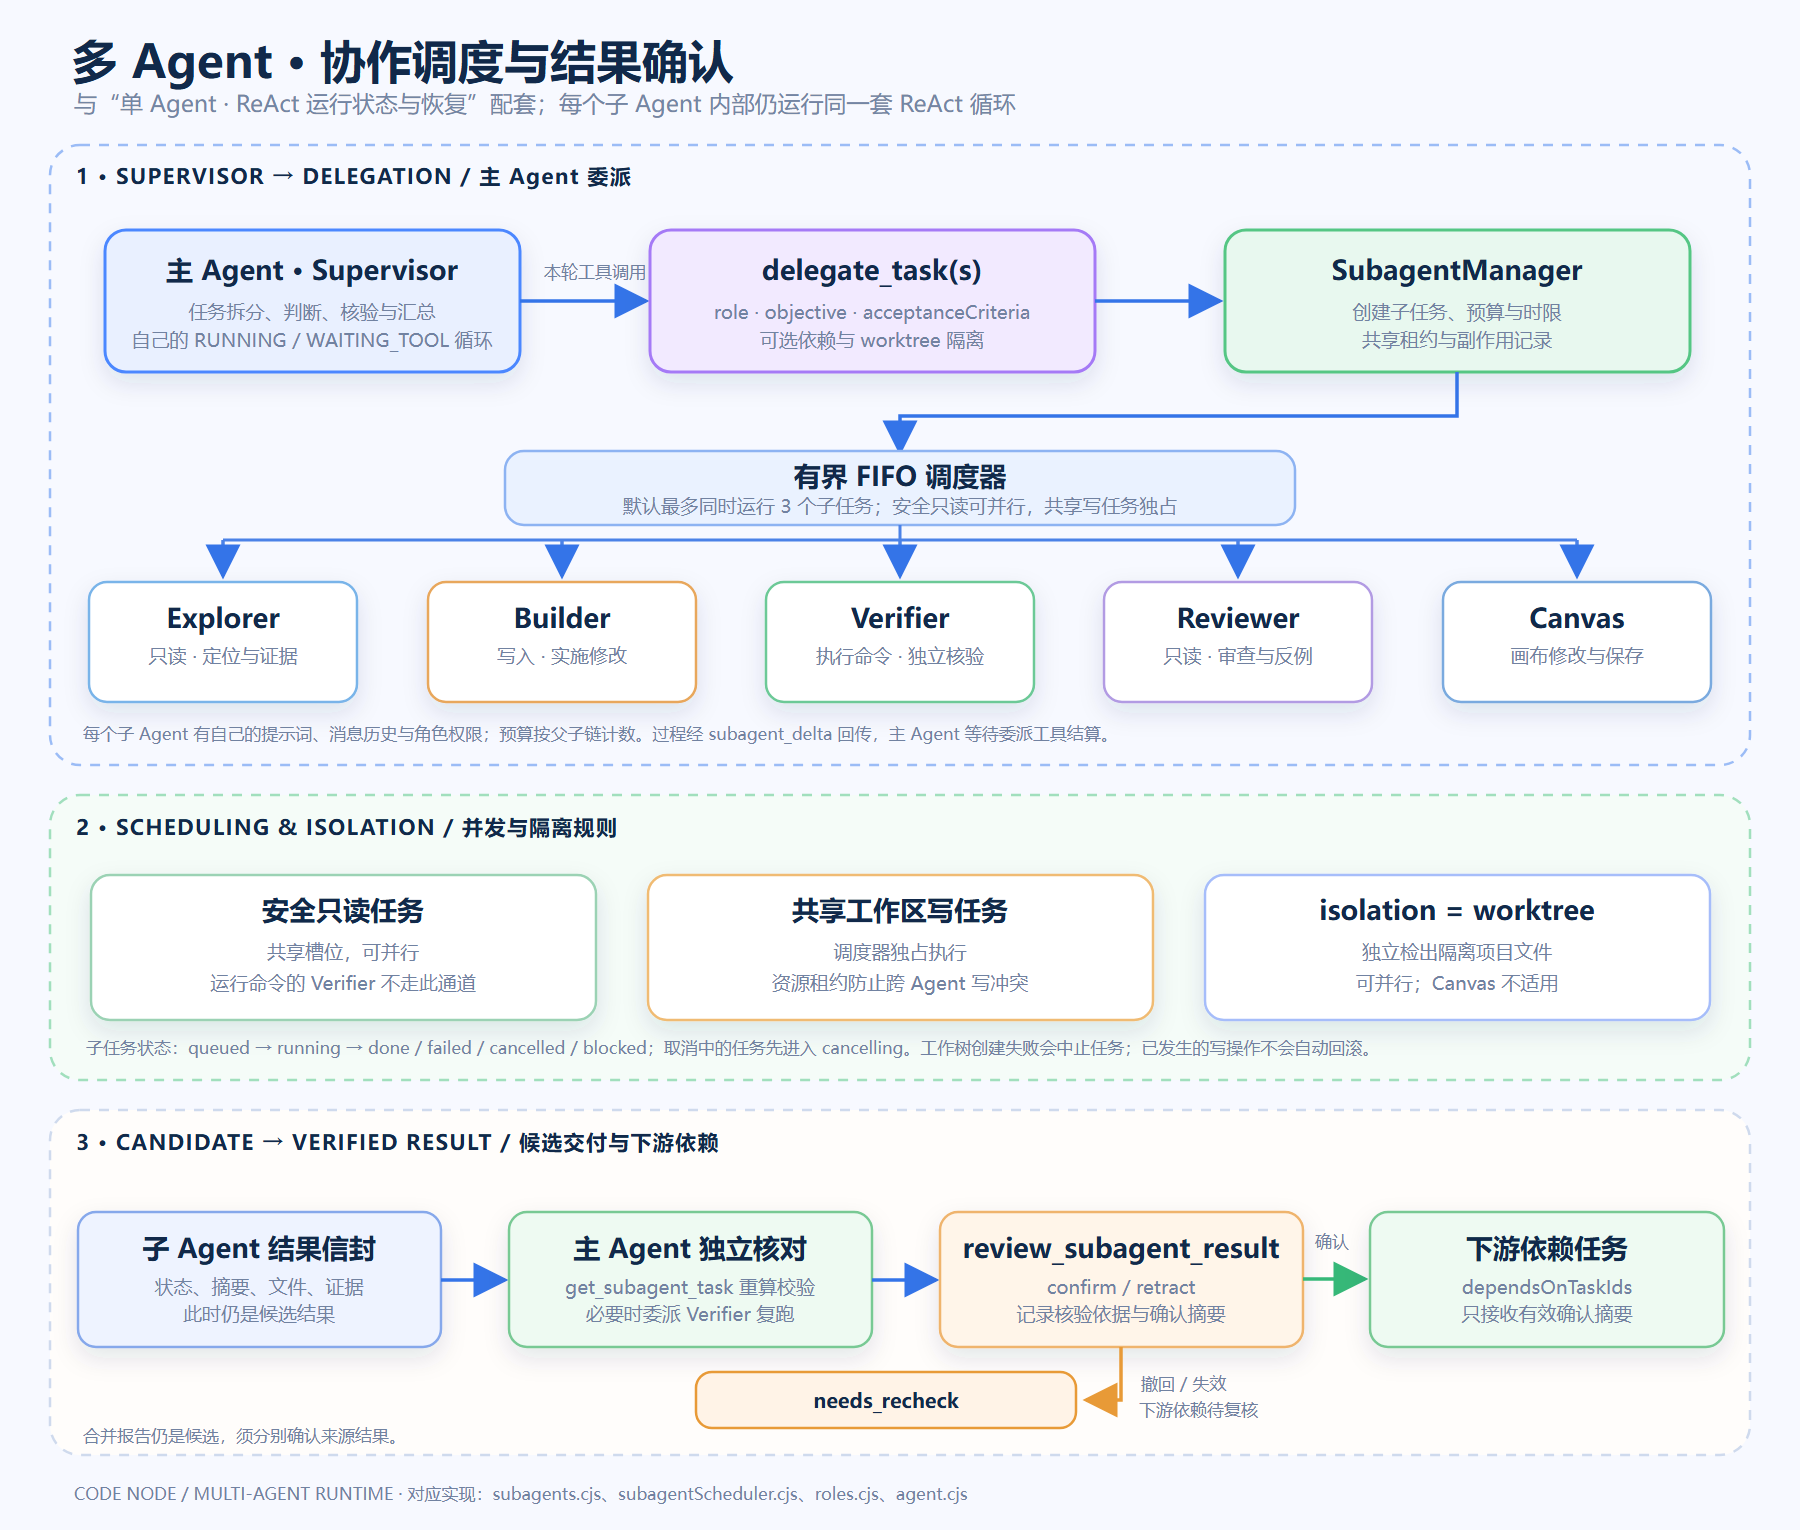
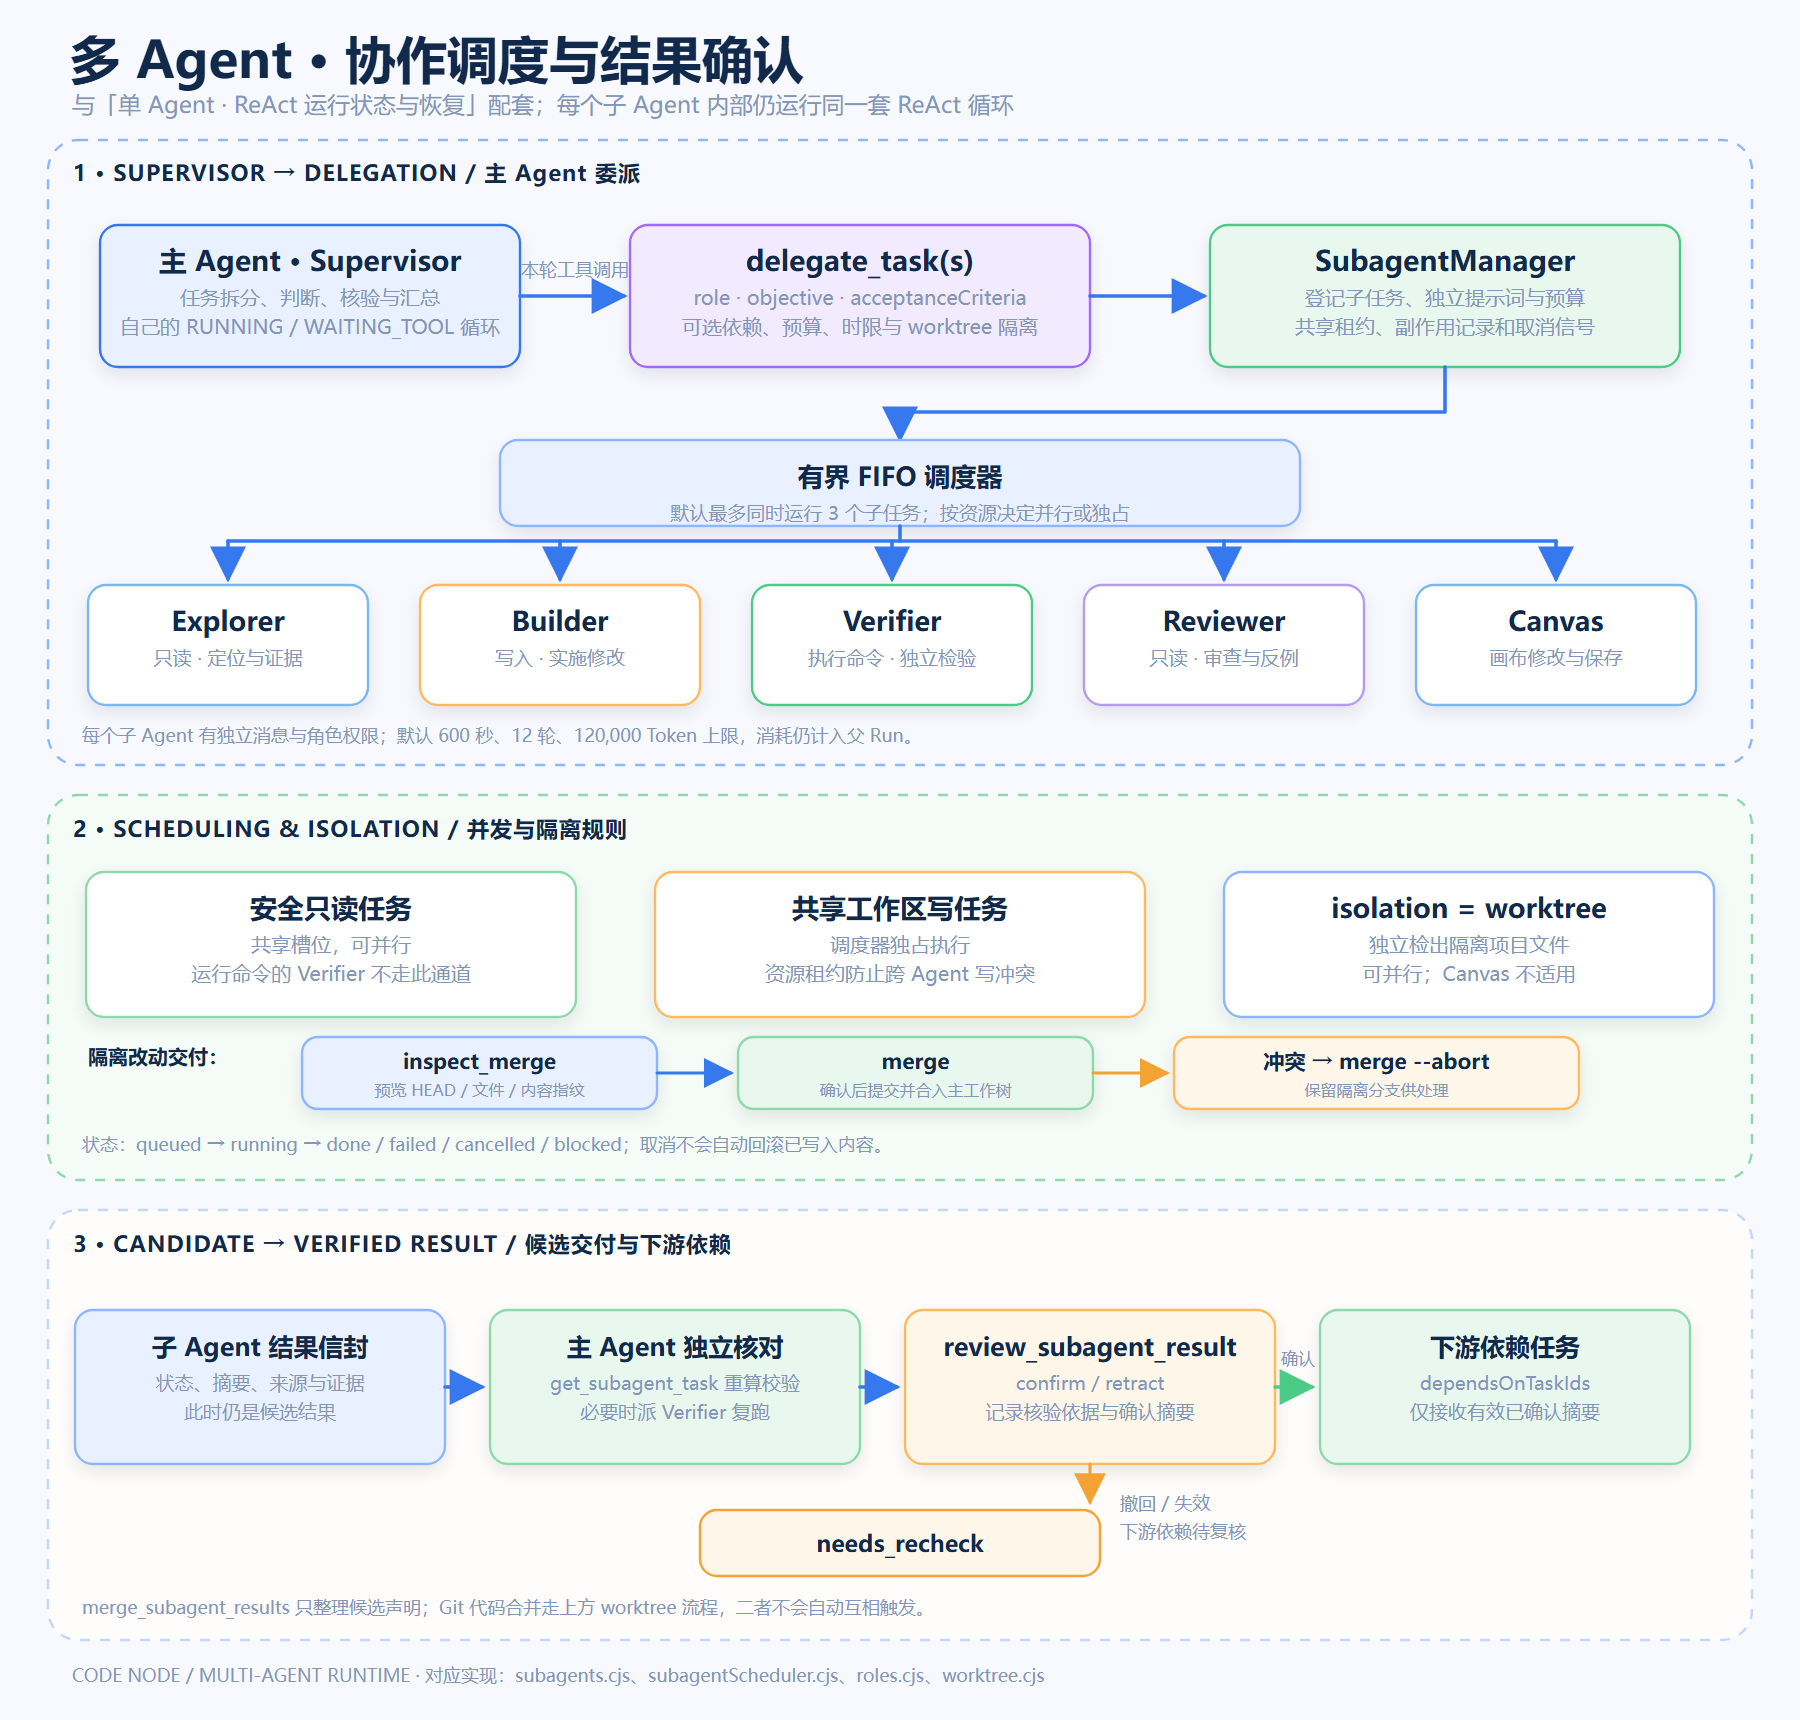
docs: rewrite README and update multi-agent diagram

diff --git a/README.md b/README.md
@@ -1,26 +1,27 @@
 # CodeNode
 
-CodeNode 是一个面向本地工程的桌面 Agent 工作台：用对话让 Agent 读写项目，用节点画布编排工作流，并在同一处查看工具调用、运行记录和恢复计划。桌面端由 Electron、React 和 React Flow 构成。
+**把本地代码工程、Agent 对话和可视化工作流放在同一个桌面窗口。**
 
-## 架构图
+CodeNode 使用 Electron、React 和 React Flow 构建。你可以让 Agent 查找、阅读和修改项目文件，在画布上拆解并运行任务，并从工具记录、运行事件和恢复计划中核对实际发生了什么。工程保存在 `.cnode` 文件中；源代码仍保留在你选择的项目目录。
 
-### 单 Agent：ReAct 状态与恢复
+[快速开始](#快速开始) · [工作方式](#工作方式) · [多-agent-协作](#多-agent-协作) · [运行与恢复](#运行与恢复) · [开发与验证](#开发与验证)
 
-![单 Agent ReAct 运行状态与恢复](docs/architecture/single-agent-react-state.png)
+![CodeNode Agent 对话与画布](docs/screenshots/agent-chat.png)
 
-模型提出工具调用后，运行从 `RUNNING` 进入 `WAITING_TOOL`；工具结果写回对话，再回到 `RUNNING`。需要确认时进入 `WAITING_USER`；回答完成、出错、取消和达到上限各有明确终态。旧 Run 的检查点与副作用记录决定能否安全续跑。
+## CodeNode 能做什么
 
-### 多 Agent：委派、隔离与结果确认
-
-![多 Agent 协作调度与结果确认](docs/architecture/multi-agent-collaboration.png)
-
-主 Agent 通过 `delegate_task / delegate_tasks` 分工；每个子 Agent 都有自己的 ReAct 循环、角色权限和任务上下文。只读任务可按规则并行，共享写任务独占。子 Agent 的结果先是候选，主 Agent 核对确认后才传给依赖它的任务。
-
-> 图中的 **ACTIVE 是活动态分组，不是代码状态**。画布上的 `stage` 节点也不等于立即启动子 Agent。实现细节见 [架构说明](docs/architecture/README.md)。
+| 能力 | 在工作台中的用法 |
+| --- | --- |
+| 面向工程的 Agent | 读取、检索、编辑项目文件，执行获准的工具与命令，并展示调用过程。 |
+| 可视化工作流 | 用 `start`、`task`、`stage`、`tool`、`scope` 等节点组织步骤和依赖，在画布中运行或继续工作流。 |
+| 多 Agent 分工 | 主 Agent 按任务委派探查、实现、验证和审查；子任务按角色约束工具权限，结果需核对后才能传给下游。 |
+| 项目上下文 | 检索项目文件和画布标量；可按配置使用本地索引、向量检索及外部检索能力。 |
+| 可检查的运行记录 | 查看工具结果、Run 事件与检查点；中断后根据副作用记录选择自动续跑或人工复核。 |
+| 多模型接入 | 在界面中配置 OpenAI 兼容、Anthropic、Gemini、Azure 等端点及本地服务。 |
 
 ## 快速开始
 
-需要 Node.js **22** 和桌面环境：
+需要 **Node.js 22 或更新版本**及可运行 Electron 的桌面环境。
 
 ```powershell
 git clone --branch yimi-branch https://github.com/ZhuanTou33212/CodeNode.git
@@ -29,30 +30,82 @@ npm ci
 npm run dev
 ```
 
-`npm run dev` 同时启动 Vite 和 Electron；只打开网页无法使用工程文件和 Agent。Windows 也可双击 `启动项目.bat`。使用构建版可运行 `npm run start:prod`。
+`npm run dev` 会同时启动 Vite 和 Electron。CodeNode 的工程文件、工具和 Agent 依赖桌面主进程，单独打开网页并不能代替桌面应用。Windows 也可以双击仓库中的 `启动项目.bat`。
 
-## 5 分钟上手
-
-1. 启动页选“新建工程”“打开工程”或“打开工程文件”；已有工程也可从“最近打开”手动进入。
-2. 左侧 **Agent** 页打开模型下拉框 →“管理模型…”→“+ 新增模型”，填写模型 ID、API 地址和 API Key，保存并设为当前模型。
-3. 输入任务并按 **Enter** 发送；**Shift+Enter** 换行。运行中可“插话”纠偏或“停止”；写入与外部操作按提示确认。
-4. 编排画布时按 **Shift+A** 添加节点，连成 `start → task → end`；顶部“运行”打开底部面板，再点“运行工作流”。“数据流”只计算节点输入输出。
-5. 点“保存”或按 **Ctrl+S** 保存 `.cnode`。任务中断时到“运行”页点“查看恢复计划”，按提示选择自动续跑或人工复核。
-
-详细按钮、示例任务、多 Agent 分工与恢复操作见 [操作指南](docs/usage-guide.md)。
-
-## 开发与文档
+构建后运行桌面版：
 
 ```powershell
-npm run build       # 类型检查与构建
-npm run check:js    # 主进程和脚本静态检查
-npm run verify      # 完整门禁
-npm run dist:win    # Windows 打包；macOS / Linux 对应 dist:mac / dist:linux
+npm run start:prod
 ```
 
-- [架构说明](docs/architecture/README.md)
-- [操作指南](docs/usage-guide.md)
-- [画布节点](docs/canvas-node.md)
-- [模型协议](docs/model-protocol-multi-provider-2026-09-23.md)
-- [发布流程](docs/release-process.md)
-- [MIT License](LICENSE)
+### 第一次使用
+
+1. 在启动页选择**新建工程**、**打开工程**或**打开工程文件**；已有 `.cnode` 文件也可直接打开。
+2. 在左侧 **Agent → 管理模型… → + 新增模型**中填写模型 ID、API 地址和 API Key，保存并设为当前模型。
+3. 先试一个只读任务，例如：“找到项目入口文件，说明启动流程，并给出文件路径”。按 **Enter** 发送，**Shift+Enter** 换行。
+4. 需要修改时说明范围和验收条件；查看工具调用与结果，按界面提示处理需要确认的操作。运行中可“插话”或“停止”。
+5. 用 **Ctrl+S** 保存 `.cnode` 工程。任务中断后，在底部“运行”页查看恢复计划。
+
+更完整的按钮路径和示例见[操作指南](docs/usage-guide.md)。
+
+## 工作方式
+
+**对话任务**由 Agent 依据当前项目和可用工具执行；**画布工作流**按节点连线组织执行顺序。二者可以在同一工作台中使用，但画一个 `stage` 节点不会立即启动子 Agent；聊天中的委派由主 Agent 调用 `delegate_task` 或 `delegate_tasks` 发起。
+
+在空白画布按 **Shift+A** 添加节点，最小可运行链路是 `start → task → end`。选中节点填写目标，再从节点端口连线；顶部“运行”打开底部面板，在“连续执行”页启动工作流。“数据流”只计算节点输入和输出。节点类型与规则见[画布节点说明](docs/canvas-node.md)。
+
+![CodeNode 工作流画布](docs/screenshots/codenode-canvas.png)
+
+## 多 Agent 协作
+
+主 Agent 自己运行 ReAct 循环，并在适合独立处理的多步任务中委派子 Agent。每个子 Agent 有自己的提示词、消息历史、角色权限、时限和预算；默认有界 FIFO 调度器最多同时运行 **3** 个子任务。安全只读任务可以并行，共享工作区写任务独占。
+
+![多 Agent 协作调度与结果确认](docs/architecture/multi-agent-collaboration.png)
+
+[查看可缩放 SVG](docs/architecture/multi-agent-collaboration.svg) · [架构与实现说明](docs/architecture/README.md)
+
+| 角色 | 职责 | 边界 |
+| --- | --- | --- |
+| `explorer` | 定位文件、符号和证据 | 只读，不修改文件或运行命令 |
+| `builder` | 在任务范围内实施修改 | 写操作受权限与确认策略约束 |
+| `verifier` | 运行测试、构建和检查 | 不修改被测源码 |
+| `reviewer` | 独立审查实现与边界情况 | 只读，不代替实现角色修复 |
+| `canvas` | 修改和保存画布 | 不写项目源码文件 |
+
+子 Agent 的回答先是**候选结果**。主 Agent 可读取任务信封、核对来源和产物，必要时让 `verifier` 独立复跑；只有经过确认且仍有效的摘要，才会通过 `dependsOnTaskIds` 传给下游。`merge_subagent_results` 汇总的是候选声明，不会合并 Git 代码。
+
+修改项目文件时可选择 `isolation: "worktree"`，让子任务在独立 Git 工作树中执行。隔离改动不会自动进入主工作树：先用 `inspect_merge` 预览文件、分支版本和内容指纹，再确认 `merge`。主工作树须保持干净；发生冲突时工具会尝试回退合并并保留隔离分支。该模式要求项目是 Git 仓库，且不适用于 `canvas` 角色。操作步骤见[多 Agent 指南](docs/usage-guide.md#让多个-agent-分工)。
+
+## 运行与恢复
+
+单次 Agent Run 从 `RUNNING` 开始：模型要求调用工具时进入 `WAITING_TOOL`，工具结果写回对话后继续运行；等待审批或工具提问时进入 `WAITING_USER`。最终答复、系统错误、用户取消和预算触顶分别对应 `COMPLETED`、`FAILED`、`CANCELLED`、`LIMIT_REACHED`。
+
+![单 Agent ReAct 运行状态与恢复](docs/architecture/single-agent-react-state.png)
+
+图中的 **ACTIVE 是活动态分组，不是额外的代码状态**。普通工具失败通常会交还模型处理；观察汇总是工具循环的内部步骤，不代替原始工具记录。
+
+中断后，CodeNode 根据 Run 事件、检查点和副作用账本生成恢复计划：安全的待办步骤可以自动续跑，结果未知的写入或外部操作需要人工复核。继续时创建新 Run，旧 Run 保留原状态。详见[架构说明](docs/architecture/README.md)和[恢复操作](docs/usage-guide.md#中断后继续)。
+
+## 开发与验证
+
+```powershell
+npm run build       # TypeScript 检查、Vite 构建和图标检查
+npm run check:js    # Electron 主进程与脚本的 JS 类型检查
+npm test            # 核心回归测试
+npm run verify      # build + check:js + 核心测试
+npm run dist:win    # Windows 打包；另有 dist:mac / dist:linux
+```
+
+| 位置 | 内容 |
+| --- | --- |
+| `src/` | React 界面、画布和状态管理 |
+| `electron/agent.cjs`、`electron/agentState.cjs` | Agent 工具循环与 Run 状态机 |
+| `electron/tools/`、`electron/subagents.cjs` | 工具权限、确认、子代理委派与结果核对 |
+| `electron/runStore.cjs`、`electron/runCheckpoint.cjs` | 运行事件、检查点和恢复计划 |
+| `docs/` | 操作、架构、模型协议和发布说明 |
+
+更多资料：[模型协议](docs/model-protocol-multi-provider-2026-09-23.md) · [项目检索](docs/agentic-rag-scalar-vector.md) · [发布流程](docs/release-process.md)
+
+## 许可证
+
+[MIT](LICENSE)
